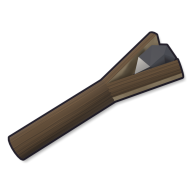
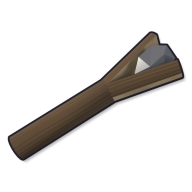
0.0.8.14 — Images plus claires (avis de l'utilisateur) : « Casser / Récupérer des objets » (le caillou tenu au bout des doigts, flèche vers le haut, bâton cassé) et « Tailler » (la main ne cache plus le silex), éclats plus visibles

Changed region(s): [[0.6875, 0.2188, 0.875, 0.4062]]

diff --git a/sources_blender/menus/generer_images_menus.py b/sources_blender/menus/generer_images_menus.py
@@ -252,12 +252,13 @@ def mat_stone():
 
 def mat_flint():
     # Silex : cassure sombre et brillante, croûte blanchâtre et mate par taches.
-    return noisy("Silex", (0.03, 0.03, 0.036), (0.085, 0.082, 0.095), scale=7.0, roughness=0.2, bump=0.06,
-                 specular=0.9, spots=((0.62, 0.58, 0.5), 0.57, 0.9))
+    return noisy("Silex", (0.03, 0.03, 0.036), (0.085, 0.082, 0.095), scale=7.0, roughness=0.32, bump=0.06,
+                 specular=0.9, spots=((0.62, 0.58, 0.5), 0.6, 0.9))
 
 
 def mat_flint_inside():
-    return principled("Silex_cassure", (0.04, 0.039, 0.046), roughness=0.16, specular=0.95, coat=0.4)
+    # Un peu plus clair que le silex entier : les éclats se voient sur le fond sombre des menus.
+    return principled("Silex_cassure", (0.09, 0.088, 0.1), roughness=0.18, specular=0.95, coat=0.4)
 
 
 def mat_skin(skin):
@@ -534,6 +535,9 @@ POSES = {
     # Griffe (creuser).
     "griffe": {"doigts": [(30, 48, 36), (28, 46, 34), (30, 48, 36), (34, 50, 38)], "ecart": 0.15,
                "pouce": [(0.022, 0.012, -0.004), (0.046, 0.034, 0.014), (0.058, 0.056, 0.034), (0.058, 0.072, 0.052)]},
+    # Pince (tenir un caillou au bout des doigts, qu'on voit en entier).
+    "pince": {"doigts": [(14, 22, 16), (12, 20, 14), (16, 24, 18), (20, 26, 20)],
+              "pouce": [(0.022, 0.012, -0.004), (0.042, 0.04, 0.012), (0.046, 0.068, 0.03), (0.036, 0.09, 0.044)]},
     # Prise (tenir un caillou, une touffe) : doigts bien repliés autour.
     "prise": {"doigts": [(42, 62, 44), (40, 60, 42), (44, 62, 44), (48, 64, 46)],
               "pouce": [(0.022, 0.012, -0.004), (0.044, 0.036, 0.018), (0.046, 0.06, 0.04), (0.036, 0.074, 0.054)]},
@@ -981,6 +985,32 @@ def stick_frame(screen_angle, opening, location=(0.0, 0.0, 0.0)):
     return Matrix.Translation(Vector(location)) @ Matrix((x, side, axis)).transposed().to_4x4()
 
 
+def hold(obj, grip, point):
+    """Déplace la main pour que son point `grip` (repère de la main) soit à `point` (monde)."""
+    obj.matrix_world = Matrix.Translation(Vector(point) - in_hand(obj, grip)) @ obj.matrix_world
+    return obj
+
+
+def broken_stick(name, a, b, gap, radius):
+    """Bâton cassé en deux : deux morceaux de a à b (monde), écartés de `gap` au milieu, bois clair et échardes à la
+    cassure."""
+    a, b = Vector(a), Vector(b)
+    middle = (a + b) * 0.5
+    along = (b - a).normalized()
+    side = along.cross(Vector((0.0, 0.0, 1.0))).normalized()
+    ends = [(a, middle - along * gap * 0.5 + side * 0.012), (middle + along * gap * 0.5 - side * 0.006, b)]
+    rng = random.Random(9)
+    for index, (start, end) in enumerate(ends):
+        stick("%s_%d" % (name, index), start, end, radius, radius * 0.92)
+        broken = end if index == 0 else start
+        direction = (end - start).normalized() * (1 if index == 0 else -1)
+        for splinter in range(4):
+            offset = Vector((rng.uniform(-1, 1), rng.uniform(-1, 1), rng.uniform(-0.3, 1))).normalized() * radius * 0.55
+            tip = broken + offset + direction * rng.uniform(0.006, 0.013)
+            piece = tube("%s_echarde_%d_%d" % (name, index, splinter), [broken + offset * 0.8 - direction * 0.002, tip], radius * 0.28, radius * 0.05, sides=5)
+            assign(piece, mat_wood())
+
+
 # --- Les images ---
 
 def img_main(skin):
@@ -1029,13 +1059,20 @@ def img_creuser(skin):
 
 
 def img_casser_objets(skin):
-    """Clic gauche « Casser / Récupérer des objets » : la main ramasse un caillou posé sur l'herbe, à côté d'un bâton."""
-    ground("Sol", size=(0.22, 0.17), depth=0.03, layer=0.01)
-    stick("Baton", (-0.08, 0.05, 0.007), (0.09, -0.04, 0.007), 0.0075, 0.006)
-    obj = hand("Main", skin, "prise", arm=0.4)
-    orient(obj, (0.35, 0.15, -0.92), (0.15, -0.95, 0.1), (-0.04, 0.02, 0.15))
-    stone = pebble("Caillou", 3, 0.058, mat_stone())
-    stone.location = in_hand(obj, (0.004, 0.088, 0.03))
+    """Clic gauche « Casser / Récupérer des objets » : la main, de côté, soulève un caillou tenu au bout des doigts
+    (on le voit en entier ; flèche vers le haut : ramasser) ; sur l'herbe, un bâton cassé en deux (casser)."""
+    right, up, forward = view_axes()
+    ground("Sol", size=(0.24, 0.18), depth=0.03, layer=0.01)
+    broken_stick("Baton", (-0.06, 0.06, 0.007), (0.105, 0.035, 0.007), 0.02, 0.0075)
+    point = Vector((-0.01, -0.03, 0.075))
+    stone = pebble("Caillou", 3, 0.05, mat_stone())
+    stone.location = point
+    obj = hand("Main", skin, "pince", arm=0.4)
+    # Doigts vers le bas, paume vers la gauche de l'image (vers le caillou, du côté de la lumière), un peu vers nous.
+    orient(obj, (-up * 0.9 - right * 0.12).normalized(), (-right * 0.9 - forward * 0.3).normalized(), (0.0, 0.0, 0.0))
+    hold(obj, (0.004, 0.122, 0.036), point)
+    base = point - right * 0.068 - forward * 0.01
+    arrow("Fleche", (base.x, base.y, 0.018), (base.x, base.y, 0.1), 0.011)
 
 
 def img_arracher(skin):
@@ -1184,25 +1221,33 @@ def img_tresser(skin=None):
             obj.matrix_world = turn @ obj.matrix_world
 
 def img_tailler(skin):
-    """Fabrication « Tailler » : la main frappe un silex avec un caillou, des éclats et des étincelles sautent."""
-    nodule = pebble("Silex", 4, 0.085, mat_flint())
-    nodule.location = (0.03, 0.0, 0.0)
-    nodule.rotation_euler = Euler((0.2, 0.3, 0.5))
-    obj = hand("Main", skin, "prise", arm=0.4)
-    orient(obj, (0.4, 0.3, -0.85), (0.2, -0.95, 0.05), (-0.085, 0.01, 0.13))
-    stone = pebble("Percuteur", 2, 0.055, mat_stone())
-    stone.location = in_hand(obj, (0.004, 0.085, 0.026))
-    impact = Vector((0.008, -0.012, 0.042))
+    """Fabrication « Tailler » : un silex devant, en entier ; au-dessus, la main tient un caillou au bout des doigts et
+    frappe le bord du silex ; des éclats sautent vers nous, avec des étincelles."""
+    right, up, forward = view_axes()
+    # Rognon de silex : bosselé mais lisse (sans facettes qui brillent en triangle), sombre, un peu de croûte claire.
+    nodule = blob("Silex", 0.045, 23, squash=(1.2, 1.0, 0.82), rough=0.34, subdiv=4)
+    assign(nodule, mat_flint())
+    nodule.location = (0.0, 0.0, 0.0)
+    impact = right * 0.022 + up * 0.036 - forward * 0.004
+    hammer_center = impact + (right * 0.25 + up * 0.97).normalized() * 0.027
+    stone = pebble("Percuteur", 2, 0.048, mat_stone())
+    stone.location = hammer_center
+    obj = hand("Main", skin, "pince", arm=0.4)
+    # Doigts vers le bas, paume vers la gauche de l'image (vers le caillou et le silex).
+    orient(obj, (-up * 0.85 - right * 0.2).normalized(), (-right * 0.85 - forward * 0.35).normalized(), (0.0, 0.0, 0.0))
+    hold(obj, (0.004, 0.122, 0.036), hammer_center)
     rng = random.Random(5)
-    for index, (direction, size) in enumerate([((0.9, -0.3, 0.6), 0.03), ((0.3, -0.7, 0.9), 0.024), ((1.0, 0.2, 0.25), 0.02), ((-0.1, -0.9, 0.35), 0.017)]):
+    for index, (direction, size) in enumerate([((-0.6, 0.5), 0.034), ((0.6, 0.3), 0.029), ((-0.9, -0.1), 0.025), ((0.95, -0.2), 0.021)]):
+        d = (right * direction[0] + up * direction[1] - forward * 0.45).normalized()
         piece = flake("Eclat_%d" % index, size, 70 + index)
-        piece.location = impact + Vector(direction).normalized() * (0.035 + 0.012 * index)
+        piece.location = impact + d * (0.04 + 0.01 * index)
         piece.rotation_euler = Euler((rng.uniform(0, 6.3), rng.uniform(0, 6.3), rng.uniform(0, 6.3)))
         assign(piece, mat_flint_inside())
-    for index, direction in enumerate([(0.7, -0.5, 0.5), (0.1, -0.9, 0.4), (0.95, 0.1, 0.35), (0.5, -0.8, 0.0), (0.4, -0.2, 0.9)]):
-        d = Vector(direction).normalized()
-        spark = tube("Etincelle_%d" % index, [impact + d * 0.01, impact + d * 0.032], 0.0018, 0.0005, sides=6)
+    for index, direction in enumerate([(-0.7, 0.4), (0.8, 0.5), (-1.0, -0.05), (0.95, 0.0), (-0.4, 0.75)]):
+        d = (right * direction[0] + up * direction[1] - forward * 0.3).normalized()
+        spark = tube("Etincelle_%d" % index, [impact + d * 0.01, impact + d * 0.04], 0.0026, 0.0006, sides=6)
         assign(spark, mat_white())
+
 
 def img_fendre(skin=None):
     """Fabrication « Fendre » : le bout d'une branche fendu en V (bois clair dedans), un éclat de silex enfoncé dans la
